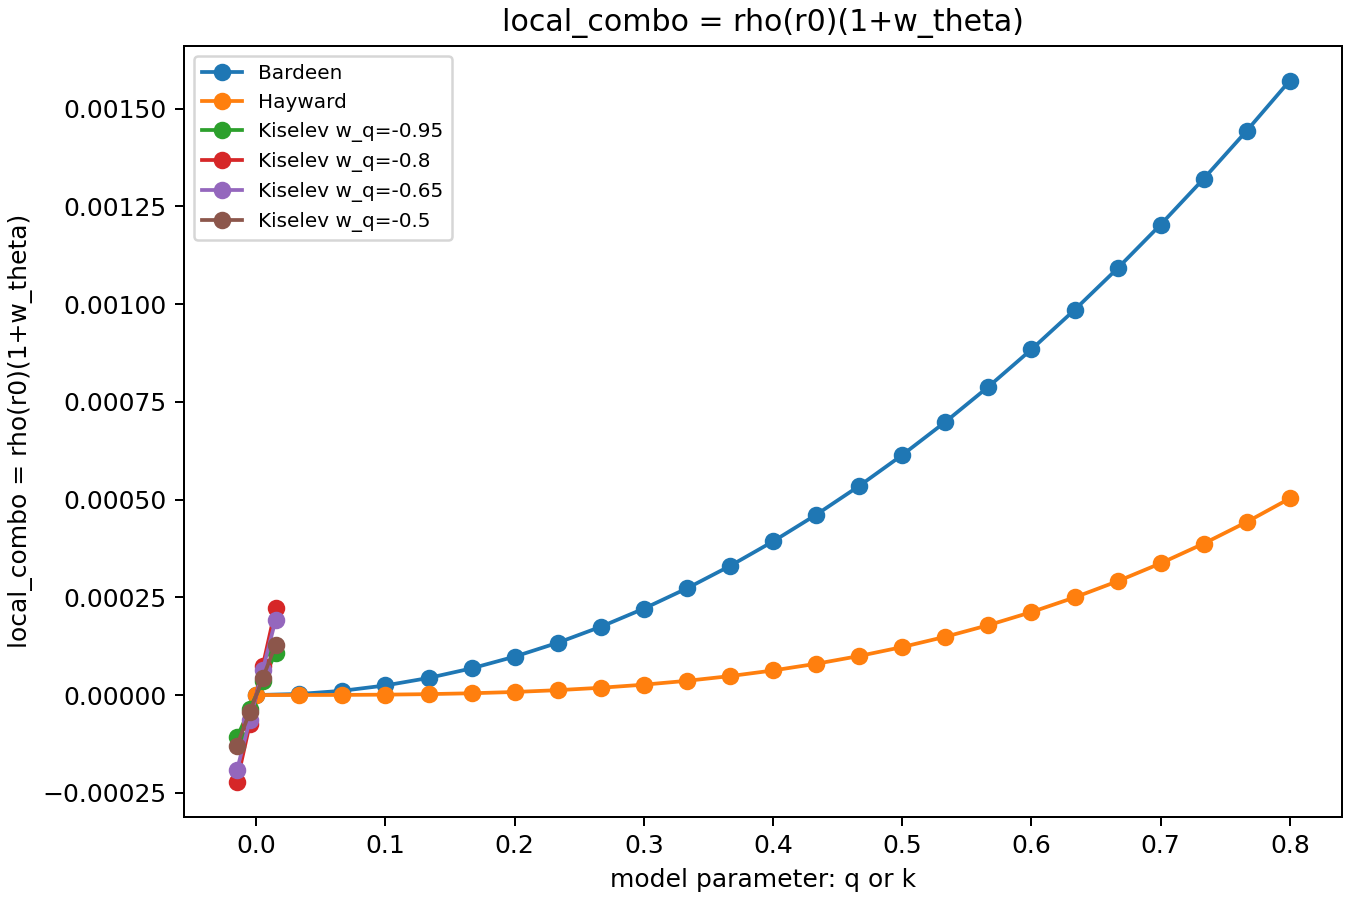
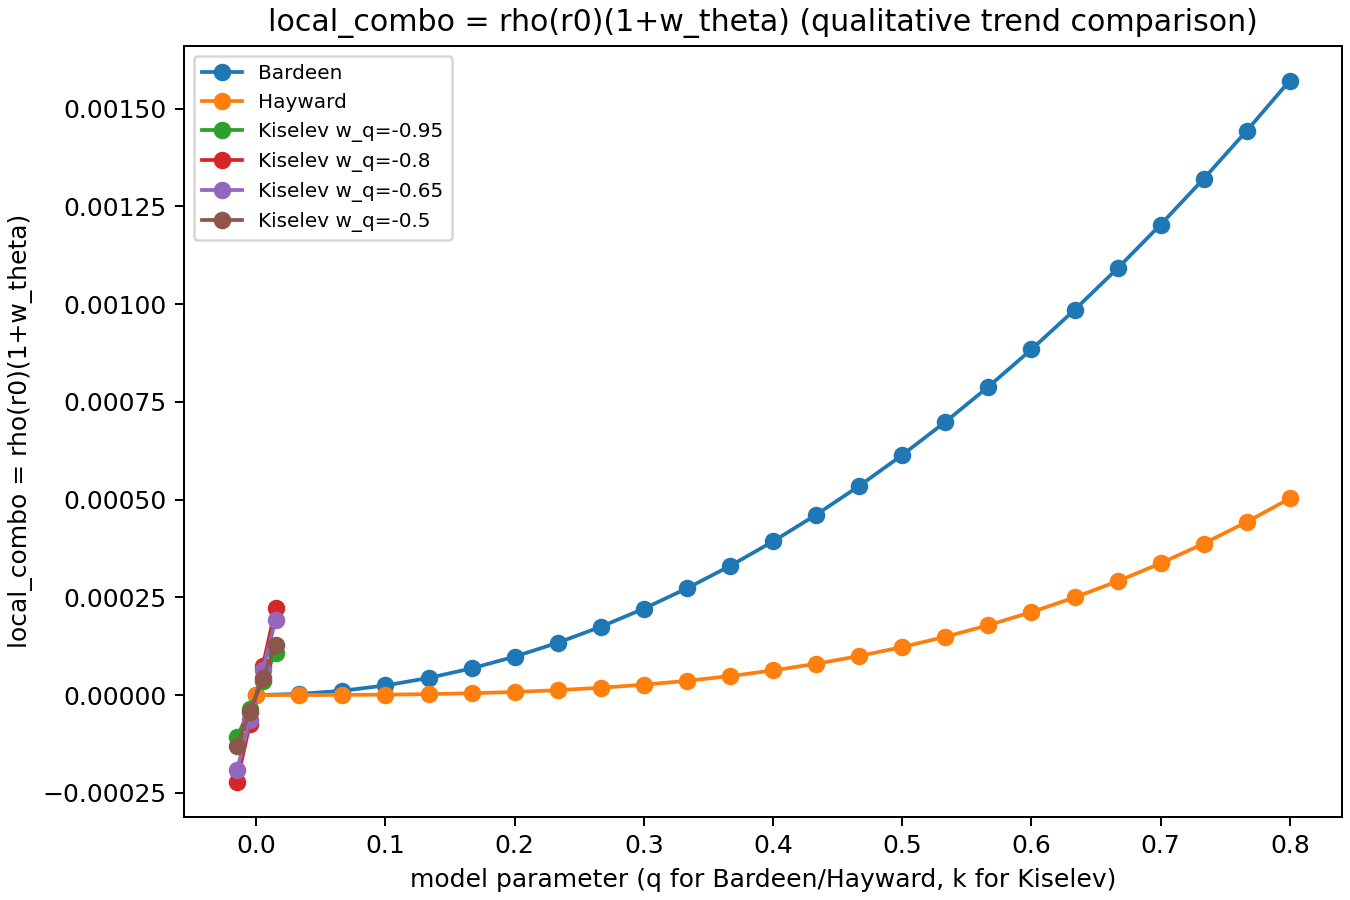
Clarify inverse diagnostics limitations

Changed region(s): [[0.1867, 0.0, 0.9333, 0.0622], [0.3111, 0.9644, 0.84, 0.9956]]

diff --git a/inverse_qnm_matter_diagnostics.py b/inverse_qnm_matter_diagnostics.py
@@ -68,6 +68,8 @@ def observables_to_relative_shifts(
 ) -> tuple[float, float]:
     Omega0 = 1.0 / (3.0 * np.sqrt(3.0) * M)
     lambda0 = 1.0 / (3.0 * np.sqrt(3.0) * M)
+    # A and B are the two relative QNM shifts fixed by one complex QNM.
+    # A = deltaOmega/Omega0, B = deltaLambda/lambda0.
     A = Omega_obs / Omega0 - 1.0
     B = lambda_obs / lambda0 - 1.0
     return A, B
@@ -86,7 +88,9 @@ def shifts_to_matter_diagnostics(A: float, B: float, M: float) -> dict[str, floa
         "A": A,
         "B": B,
         "delta_f_r0": (2.0 / 3.0) * A,
+        # I_rho is an integrated diagnostic, not a full density reconstruction.
         "I_rho": r0 * A / (12.0 * np.pi),
+        # local_combo means rho(r0) * (1 + w_theta).
         "local_combo": (A - B) / (4.0 * np.pi * r0**2),
     }
 
@@ -240,28 +244,34 @@ def build_profile_reconstructions(df: pd.DataFrame, M: float, L_values: list[flo
     return pd.DataFrame(rows)
 
 
-def plot_shift_curves(df: pd.DataFrame, out_dir: Path) -> None:
-    fig, axes = plt.subplots(1, 2, figsize=(12, 4.8), constrained_layout=True)
-    for model, group in df.groupby("model"):
-        if model == "Kiselev":
-            for w_q, subgroup in group.groupby("w_q"):
-                ordered = subgroup.sort_values("k")
-                label = f"Kiselev w_q={w_q:g}"
-                axes[0].plot(ordered["k"], ordered["A"], marker="o", label=label)
-                axes[1].plot(ordered["k"], ordered["B"], marker="o", label=label)
-        else:
-            ordered = group.sort_values("q")
-            axes[0].plot(ordered["q"], ordered["A"], marker="o", label=model)
-            axes[1].plot(ordered["q"], ordered["B"], marker="o", label=model)
+def plot_bardeen_hayward_shifts(df: pd.DataFrame, out_dir: Path) -> None:
+    fig, ax = plt.subplots(figsize=(7.5, 5), constrained_layout=True)
+    for model in ["Bardeen", "Hayward"]:
+        ordered = df[df["model"] == model].sort_values("q")
+        ax.plot(ordered["q"], ordered["A"], marker="o", label=f"{model}: A")
+        ax.plot(ordered["q"], ordered["B"], marker="s", linestyle="--", label=f"{model}: B")
 
-    axes[0].set_title("Relative Omega shift")
-    axes[0].set_xlabel("model parameter: q or k")
-    axes[0].set_ylabel("A = deltaOmega/Omega0")
-    axes[1].set_title("Relative lambda shift")
-    axes[1].set_xlabel("model parameter: q or k")
-    axes[1].set_ylabel("B = deltaLambda/lambda0")
-    axes[1].legend(fontsize=8)
-    fig.savefig(out_dir / "relative_shifts_by_model.png", dpi=180)
+    ax.set_xlabel("q / M")
+    ax.set_ylabel("relative shifts")
+    ax.set_title("Relative eikonal QNM shifts: Bardeen and Hayward")
+    ax.legend(fontsize=8)
+    fig.savefig(out_dir / "relative_shifts_bardeen_hayward.png", dpi=180)
+    plt.close(fig)
+
+
+def plot_kiselev_shifts(df: pd.DataFrame, out_dir: Path) -> None:
+    fig, ax = plt.subplots(figsize=(7.5, 5), constrained_layout=True)
+    kiselev = df[df["model"] == "Kiselev"]
+    for w_q, subgroup in kiselev.groupby("w_q"):
+        ordered = subgroup.sort_values("k")
+        ax.plot(ordered["k"], ordered["A"], marker="o", label=f"A, w_q={w_q:g}")
+        ax.plot(ordered["k"], ordered["B"], marker="s", linestyle="--", label=f"B, w_q={w_q:g}")
+
+    ax.set_xlabel("k")
+    ax.set_ylabel("relative shifts")
+    ax.set_title("Relative eikonal QNM shifts: Kiselev")
+    ax.legend(fontsize=8, ncols=2)
+    fig.savefig(out_dir / "relative_shifts_kiselev.png", dpi=180)
     plt.close(fig)
 
 
@@ -276,9 +286,9 @@ def plot_diagnostic(df: pd.DataFrame, out_dir: Path, column: str, ylabel: str, f
             ordered = group.sort_values("q")
             ax.plot(ordered["q"], ordered[column], marker="o", label=model)
 
-    ax.set_xlabel("model parameter: q or k")
+    ax.set_xlabel("model parameter (q for Bardeen/Hayward, k for Kiselev)")
     ax.set_ylabel(ylabel)
-    ax.set_title(ylabel)
+    ax.set_title(f"{ylabel} (qualitative trend comparison)")
     ax.legend(fontsize=8)
     fig.savefig(out_dir / filename, dpi=180)
     plt.close(fig)
@@ -302,15 +312,16 @@ def plot_model_comparison(df: pd.DataFrame, out_dir: Path) -> None:
     ax.set_xticks(x)
     ax.set_xticklabels(labels)
     ax.set_ylabel("diagnostic range")
-    ax.set_title("Inferred diagnostic trend ranges by model")
+    ax.set_title("Qualitative diagnostic trend ranges by model")
     ax.legend(fontsize=8)
-    fig.savefig(out_dir / "diagnostic_trend_comparison.png", dpi=180)
+    fig.savefig(out_dir / "diagnostic_trend_qualitative_comparison.png", dpi=180)
     plt.close(fig)
 
 
 def make_plots(df: pd.DataFrame, out_dir: Path) -> None:
     out_dir.mkdir(parents=True, exist_ok=True)
-    plot_shift_curves(df, out_dir)
+    plot_bardeen_hayward_shifts(df, out_dir)
+    plot_kiselev_shifts(df, out_dir)
     plot_diagnostic(df, out_dir, "I_rho", "I_rho", "I_rho_by_model.png")
     plot_diagnostic(
         df,

diff --git a/README.md b/README.md
@@ -1,20 +1,30 @@
-# Inverse QNM Matter Diagnostics
+# What Can One Eikonal QNM Tell Us About Effective Matter?
 
-This repository implements inverse diagnostics for effective matter
-distributions around black holes using one complex eikonal quasinormal-mode
-frequency.
+Inverse diagnostics for the matter combinations fixed by eikonal QNM shifts
+around black holes.
 
-The goal is not to reconstruct the full matter profile from a single QNM.
-Instead, the code extracts the matter combinations that are actually fixed by
-the static anisotropic-fluid formulas:
+This repository is a careful research prototype. It starts from one complex
+eikonal QNM frequency and extracts the effective matter combinations fixed by
+static anisotropic-fluid perturbative formulas.
 
-- `delta_f(r0)`, the metric deformation at the photon sphere
-- `I_rho`, an integrated density diagnostic outside the photon sphere
-- `rho(r0)(1+w_theta)`, a local density-pressure combination
+## Main limitation
 
-One complex QNM gives two real observables, `Omega` and `lambda`. Therefore the
-full density profile `rho(r)` and `w_theta` cannot be determined separately
-without adding an extra model assumption.
+A single complex eikonal QNM provides only two real quantities: `Omega` and
+`lambda`.
+
+Therefore, this code does not reconstruct the full matter profile `rho(r)`,
+and it does not determine `w_theta` separately in a model-independent way.
+Instead, it extracts only the combinations of metric and matter variables that
+are fixed by the perturbative formulas.
+
+The model-independent diagnostics are:
+
+- `delta_f(r0)`: metric deformation at the photon sphere
+- `I_rho`: integrated density diagnostic outside the photon sphere
+- `rho(r0) * (1 + w_theta)`: local density-pressure combination
+
+Any reconstruction of `rho0` or `w_theta` requires an additional assumed
+density profile.
 
 ## Physics
 
@@ -27,7 +37,7 @@ omega_QNM = ell * Omega - i * (n + 1/2) * lambda
 Given `omega_QNM`, `ell`, `n`, and `M`, the script computes
 
 ```text
-Omega  = Re(omega_QNM) / ell
+Omega = Re(omega_QNM) / ell
 lambda = -Im(omega_QNM) / (n + 1/2)
 ```
 
@@ -42,11 +52,11 @@ r0 = 3M
 The relative shifts are
 
 ```text
-A = deltaOmega/Omega0  = Omega/Omega0 - 1
+A = deltaOmega/Omega0 = Omega/Omega0 - 1
 B = deltaLambda/lambda0 = lambda/lambda0 - 1
 ```
 
-The inferred matter diagnostics are
+The inferred diagnostic combinations are
 
 ```text
 delta_f(r0) = (2/3) * A
@@ -57,6 +67,9 @@ I_rho = integral_{r0}^{infinity} rho(s) s^2 ds
 local_combo = rho(r0) * (1 + w_theta)
             = (A - B) / (4*pi*r0^2)
 ```
+
+Here `I_rho` is an integrated diagnostic, not a full density reconstruction,
+and `local_combo` is the combination `rho(r0) * (1 + w_theta)`.
 
 ## Validation Models
 
@@ -70,18 +83,24 @@ The script validates the inverse formulas using three forward examples:
   - `deltaOmega/Omega0 = q^3/(27 M^3)`
   - `deltaLambda/lambda0 = -2 q^3/(27 M^3)`
 
-## Conditional Profile Reconstruction
+The validation checks that the inverse diagnostic pipeline recovers the
+effective combinations implied by these known shift formulas.
 
-The script also includes an optional reconstruction under the assumed density
-profile
+## Optional toy-profile reconstruction
+
+This step is not model-independent. It only shows what `rho0` and `w_theta`
+would be if the exponential density profile were assumed:
 
 ```text
-rho(r) = rho0 * exp(-(r-r0)/L)
+rho(r) = rho0 * exp(-(r - r0) / L)
 ```
 
-with fixed `L`. Under that assumption, it estimates `rho0` and `w_theta`.
-This is conditional on the chosen profile and should not be interpreted as a
-model-independent matter reconstruction.
+The results should not be interpreted as a unique reconstruction of the matter
+distribution.
+
+With fixed `L`, the code uses `I_rho` to estimate `rho0`, then uses
+`local_combo = rho(r0) * (1 + w_theta)` to estimate a conditional value of
+`w_theta`. This is a toy assumed profile, not a model-independent result.
 
 ## Quick Start
 
@@ -107,36 +126,45 @@ outputs/inverse_diagnostics/
 
 - `inverse_diagnostics.csv`
 - `profile_reconstruction.csv`
-- `relative_shifts_by_model.png`
+- `relative_shifts_bardeen_hayward.png`
+- `relative_shifts_kiselev.png`
 - `I_rho_by_model.png`
 - `local_combo_by_model.png`
-- `diagnostic_trend_comparison.png`
+- `diagnostic_trend_qualitative_comparison.png`
 
 ## Figures
 
-![Relative shifts by model](outputs/inverse_diagnostics/relative_shifts_by_model.png)
+![Bardeen and Hayward relative shifts](outputs/inverse_diagnostics/relative_shifts_bardeen_hayward.png)
 
 Caption: Relative shifts `A = deltaOmega/Omega0` and
-`B = deltaLambda/lambda0` versus the model parameter. Bardeen and Hayward use
-`q`; Kiselev uses `k` at several fixed `w_q` values.
+`B = deltaLambda/lambda0` versus `q / M` for Bardeen and Hayward.
+
+![Kiselev relative shifts](outputs/inverse_diagnostics/relative_shifts_kiselev.png)
+
+Caption: Relative shifts `A = deltaOmega/Omega0` and
+`B = deltaLambda/lambda0` versus `k` for Kiselev at fixed `w_q` values.
 
 ![Integrated density diagnostic](outputs/inverse_diagnostics/I_rho_by_model.png)
 
-Caption: Inferred integrated density diagnostic `I_rho`.
+Caption: Inferred integrated density diagnostic `I_rho`. This is a qualitative
+trend plot because the sampled parameter intervals are model-dependent.
 
 ![Local pressure-density combination](outputs/inverse_diagnostics/local_combo_by_model.png)
 
-Caption: Inferred local combination `rho(r0)(1+w_theta)`.
+Caption: Inferred local combination `rho(r0) * (1 + w_theta)`. This is a
+diagnostic combination, not a separate determination of `rho(r0)` and
+`w_theta`.
 
-![Diagnostic trend comparison](outputs/inverse_diagnostics/diagnostic_trend_comparison.png)
+![Qualitative diagnostic trend comparison](outputs/inverse_diagnostics/diagnostic_trend_qualitative_comparison.png)
 
-Caption: Comparison of diagnostic trend ranges across Kiselev, Bardeen, and
-Hayward examples.
+Caption: Qualitative diagnostic-range comparison across validation models. The
+range comparison is qualitative only. The sampled parameter intervals are
+model-dependent, so the bars should not be interpreted as a direct physical
+ranking of the models.
 
 ## Scientific Status
 
-This is a compact inverse-analysis prototype. It is physically meaningful
-because it computes the diagnostic combinations implied by static
-anisotropic-fluid QNM-shift relations. It is also intentionally conservative:
-it does not claim that one complex QNM uniquely determines `rho(r)` or
-`w_theta`.
+This is a compact inverse-analysis prototype. It computes effective matter
+combinations implied by static anisotropic-fluid QNM-shift relations. It is
+intentionally conservative: it does not claim that one complex QNM determines
+`rho(r)`, `w_theta`, or the full matter distribution.